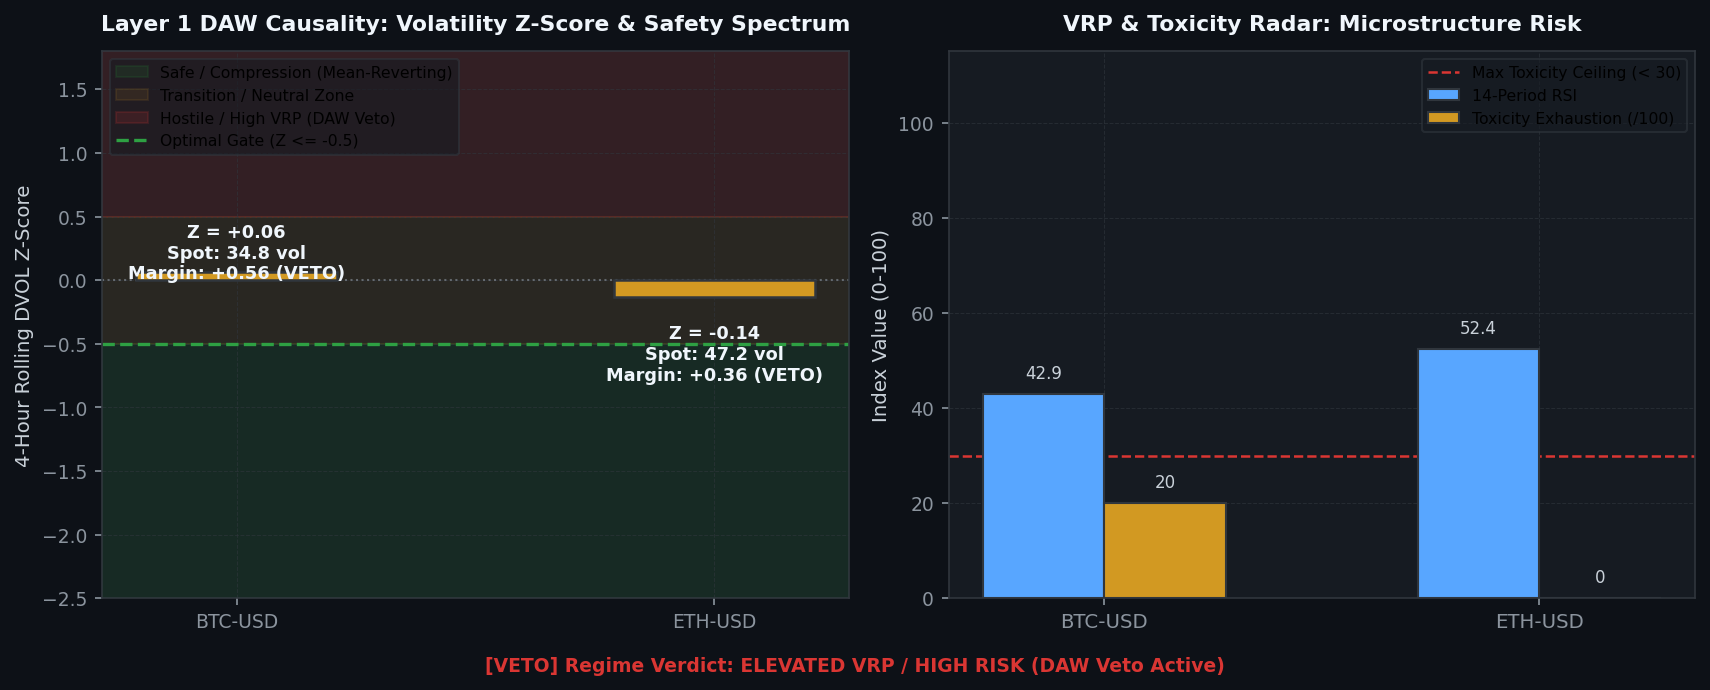
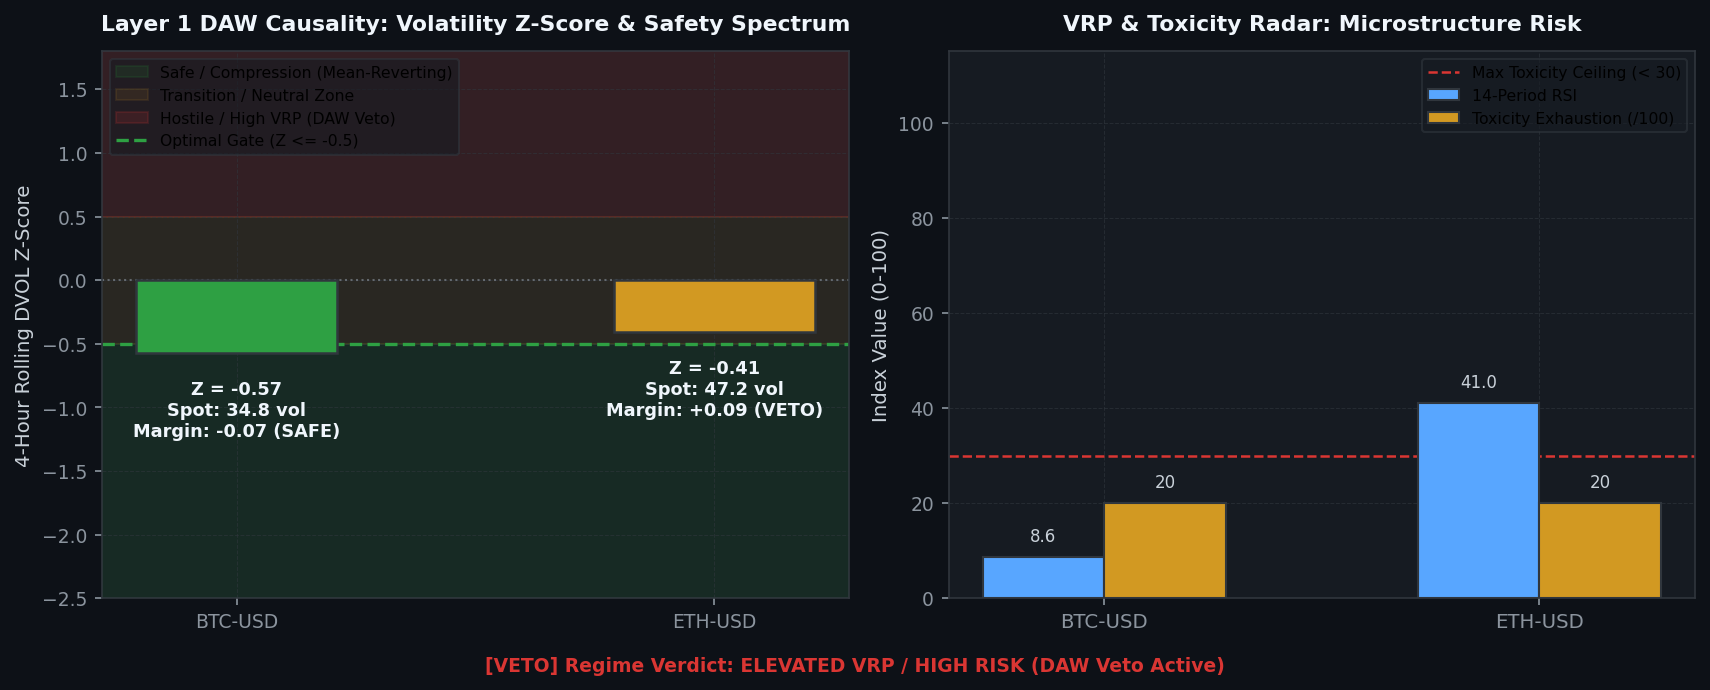
[coinbase] Hourly Status & Visual Intelligence Update: 2026-08-15 01:22:54

diff --git a/coinbase/data/hourly_status_report.md b/coinbase/data/hourly_status_report.md
@@ -1,5 +1,5 @@
 # 🛡 Unified Trading System Hourly Status & Visual Intelligence
-> **Report Generated**: `2026-08-15 01:04:20 AM PDT (2026-08-15 08:04:20 UTC)`  
+> **Report Generated**: `2026-08-15 01:22:33 AM PDT (2026-08-15 08:22:33 UTC)`  
 > **System Health**: **🟡 DEGRADED / RESTRICTED** | **Win Rate**: `0.0%` | **Completed Trades**: `0`
 
 ---
@@ -8,13 +8,13 @@ Real-time Deribit implied volatility (DVOL) proxy tracking against mathematicall
 
 | Symbol | Proxy Oracle | Live Z-Score | Optimal Limit (YSP) | Safety Margin | Live VRP | Optimal VRP (YSP) | DAW Safety Verdict |
 | :--- | :--- | :--- | :--- | :--- | :--- | :--- | :--- |
-| `AVAX-USD` | DVOL_BTC | **+0.06** | **-0.50** | **+0.56** | **+15.44** | 5.0 | 🔴 DAW VETOED |
-| `ETH-USD` | DVOL_ETH | **-0.14** | **-0.50** | **+0.36** | **+27.88** | 5.0 | 🔴 DAW VETOED |
-| `ADA-USD` | DVOL_BTC | **+0.06** | **-0.50** | **+0.56** | **+15.44** | 5.0 | 🔴 DAW VETOED |
-| `DOGE-USD` | DVOL_BTC | **+0.06** | **-0.50** | **+0.56** | **+15.44** | 5.0 | 🔴 DAW VETOED |
-| `BTC-USD` | DVOL_BTC | **+0.06** | **-0.50** | **+0.56** | **+15.44** | 5.0 | 🔴 DAW VETOED |
-| `LINK-USD` | DVOL_BTC | **+0.06** | **-0.50** | **+0.56** | **+15.44** | 5.0 | 🔴 DAW VETOED |
-| `SOL-USD` | DVOL_BTC | **+0.06** | **-0.50** | **+0.56** | **+15.44** | 5.0 | 🔴 DAW VETOED |
+| `AVAX-USD` | DVOL_BTC | **-0.57** | **-0.50** | **-0.07** | **+15.38** | 5.0 | 🔴 DAW VETOED |
+| `ETH-USD` | DVOL_ETH | **-0.41** | **-0.50** | **+0.09** | **+27.80** | 5.0 | 🔴 DAW VETOED |
+| `ADA-USD` | DVOL_BTC | **-0.57** | **-0.50** | **-0.07** | **+15.38** | 5.0 | 🔴 DAW VETOED |
+| `DOGE-USD` | DVOL_BTC | **-0.57** | **-0.50** | **-0.07** | **+15.38** | 5.0 | 🔴 DAW VETOED |
+| `BTC-USD` | DVOL_BTC | **-0.57** | **-0.50** | **-0.07** | **+15.38** | 5.0 | 🔴 DAW VETOED |
+| `LINK-USD` | DVOL_BTC | **-0.57** | **-0.50** | **-0.07** | **+15.38** | 5.0 | 🔴 DAW VETOED |
+| `SOL-USD` | DVOL_BTC | **-0.57** | **-0.50** | **-0.07** | **+15.38** | 5.0 | 🔴 DAW VETOED |
 
 ![DVOL Market Regime](./images/dvol_regime_timeline.png)
 
@@ -44,12 +44,12 @@ We hereby certify that the mission-critical algorithmic data assets uploaded by 
 
 | Status | Data Asset | Freshness / State | Details / Timestamp |
 | :---: | :--- | :--- | :--- |
-| ✅ | **Go-List JSON** | Fresh (41.93h old) | 08-13 07:08 |
-| ✅ | **TimesFM Forecasts** | Fresh (1.04h old) | 08-15 00:02 |
-| ✅ | **Holding Times config** | Fresh (63.41h old) | 08-12 09:39 |
-| ✅ | **BTC DVOL Cache** | Fresh (0.00h old) | 08-15 01:04 |
-| ✅ | **ETH DVOL Cache** | Fresh (0.00h old) | 08-15 01:04 |
-| ✅ | **Live Trading Telemetry** | Fresh (0.00h old) | 08-15 01:04 |
+| ✅ | **Go-List JSON** | Fresh (42.23h old) | 08-13 07:08 |
+| ✅ | **TimesFM Forecasts** | Fresh (1.35h old) | 08-15 00:02 |
+| ✅ | **Holding Times config** | Fresh (63.72h old) | 08-12 09:39 |
+| ✅ | **BTC DVOL Cache** | Fresh (0.00h old) | 08-15 01:22 |
+| ✅ | **ETH DVOL Cache** | Fresh (0.01h old) | 08-15 01:22 |
+| ✅ | **Live Trading Telemetry** | Fresh (0.00h old) | 08-15 01:22 |
 
 <br>
 
@@ -62,7 +62,7 @@ Layer-by-layer tick evaluation waterfall and asset-specific performance tracking
 
 | Funnel Filter Layer | Total Rejections | % of Rejections |
 | :--- | :--- | :--- |
-| Layer 1: DAW Causal Volatility Veto | `8,743` | **100.0%** |
+| Layer 1: DAW Causal Volatility Veto | `9,100` | **100.0%** |
 | Layer 2A: Vol Surface Skew & VRP Gate | `0` | **0.0%** |
 | Layer 2B: DVOL Directional Momentum Bias | `0` | **0.0%** |
 | Layer 2C: KER Efficiency Noise Filter | `0` | **0.0%** |
@@ -111,14 +111,14 @@ Live balance sheet and open maker liquidity positions from Coinbase CDP.
 ## 4. 🤖 Foundation Model MLOps & Pipeline Orchestration
 Weekly Algorithmic Mega Cap selection, Zero-shot multi-step forward return forecasts, and VSTEF parameter grid search status.
 
-- **TimesFM Forecast DB**: 🟢 Updated 1.0h ago (2026-08-15 12:02 AM PDT)
+- **TimesFM Forecast DB**: 🟢 Updated 1.3h ago (2026-08-15 12:02 AM PDT)
 - **Last Weekly VSTEF Optimization**: `2026-08-05 09:22:38 AM PDT`
-- **Next Scheduled VSTEF Run**: `2026-08-16 07:00:00 PM PDT (Monday 02:00 UTC)` (Countdown: **41.9h (1d 17h 55m)**)
+- **Next Scheduled VSTEF Run**: `2026-08-16 07:00:00 PM PDT (Monday 02:00 UTC)` (Countdown: **41.6h (1d 17h 37m)**)
 - **Promoted Parameter Gates**: $Z_{DVOL} \le -0.5$ | Holding Horizon $= 12\text{h}$
 
 ### Algorithmic Mega Cap Selection
 - **Last Run (Confirmation)**: `Never`
-- **Next Scheduled Run**: `2026-08-16 06:00:00 PM PDT (Monday 01:00 UTC)` (Countdown: **40.9h (1d 16h 55m)**)
+- **Next Scheduled Run**: `2026-08-16 06:00:00 PM PDT (Monday 01:00 UTC)` (Countdown: **40.6h (1d 16h 37m)**)
 - **Selected Mega Cap Universe**: `Could not fetch active universe from EC2`
 
 ![TimesFM Forecast Matrix](./images/timesfm_forecast_matrix.png)
@@ -132,19 +132,19 @@ Visualizing the impact of the VSTEF (Volatility-Synchronized Stop-Tightening Exe
 ## 5. 🖥 Multi-Node Infrastructure & Watchdog Matrix
 ```text
 ================================================================================
-   🛡  SFGK FUNNEL GUARDIAN WATCHDOG (HFT ONLY) |  08:04:21 AM
-   CPU:   5.7%  |  MEM:   5.4% (14.6GB / 15.4GB Free)
+   🛡  SFGK FUNNEL GUARDIAN WATCHDOG (HFT ONLY) |  08:22:33 AM
+   CPU:  14.7%  |  MEM:   6.2% (14.5GB / 15.4GB Free)
 ================================================================================
 SERVICE              | PID      | STATUS          | RESTARTS | INFO
 --------------------------------------------------------------------------------
 L3 Consumer          | 3534762  | RUNNING         | -        | Continuous Websocket Feed
-Trader AVAX-USD      | 3556899  | COOL-DOWN       | 72       | Next run in 9.7s
-Trader ETH-USD       | 3556900  | COOL-DOWN       | 72       | Next run in 9.7s
-Trader ADA-USD       | 3556901  | COOL-DOWN       | 72       | Next run in 9.7s
-Trader DOGE-USD      | 3556902  | COOL-DOWN       | 72       | Next run in 9.7s
-Trader BTC-USD       | 3556903  | COOL-DOWN       | 72       | Next run in 9.7s
-Trader LINK-USD      | 3556904  | COOL-DOWN       | 72       | Next run in 9.7s
-Trader SOL-USD       | 3556905  | COOL-DOWN       | 72       | Next run in 9.7s
+Trader AVAX-USD      | 3572968  | RUNNING         | 124      | Evaluating Funnel/Polling Order
+Trader ETH-USD       | 3572969  | RUNNING         | 124      | Evaluating Funnel/Polling Order
+Trader ADA-USD       | 3572970  | RUNNING         | 124      | Evaluating Funnel/Polling Order
+Trader DOGE-USD      | 3572971  | RUNNING         | 124      | Evaluating Funnel/Polling Order
+Trader BTC-USD       | 3572972  | RUNNING         | 124      | Evaluating Funnel/Polling Order
+Trader LINK-USD      | 3572973  | RUNNING         | 124      | Evaluating Funnel/Polling Order
+Trader SOL-USD       | 3572974  | RUNNING         | 124      | Evaluating Funnel/Polling Order
 ================================================================================
 ```
 
